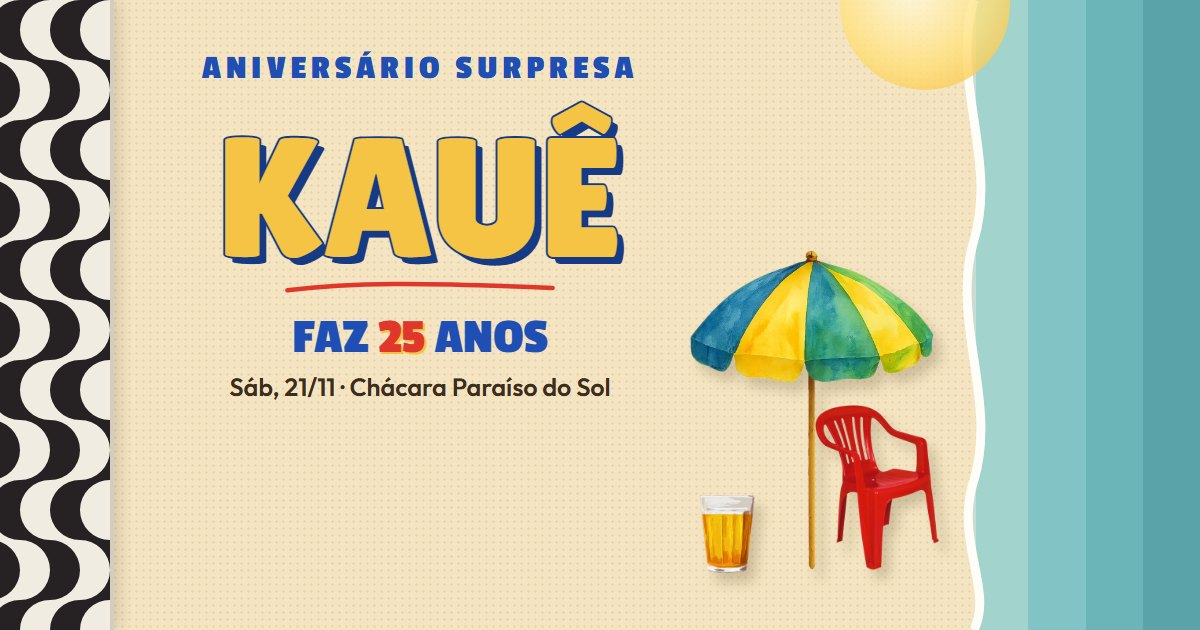
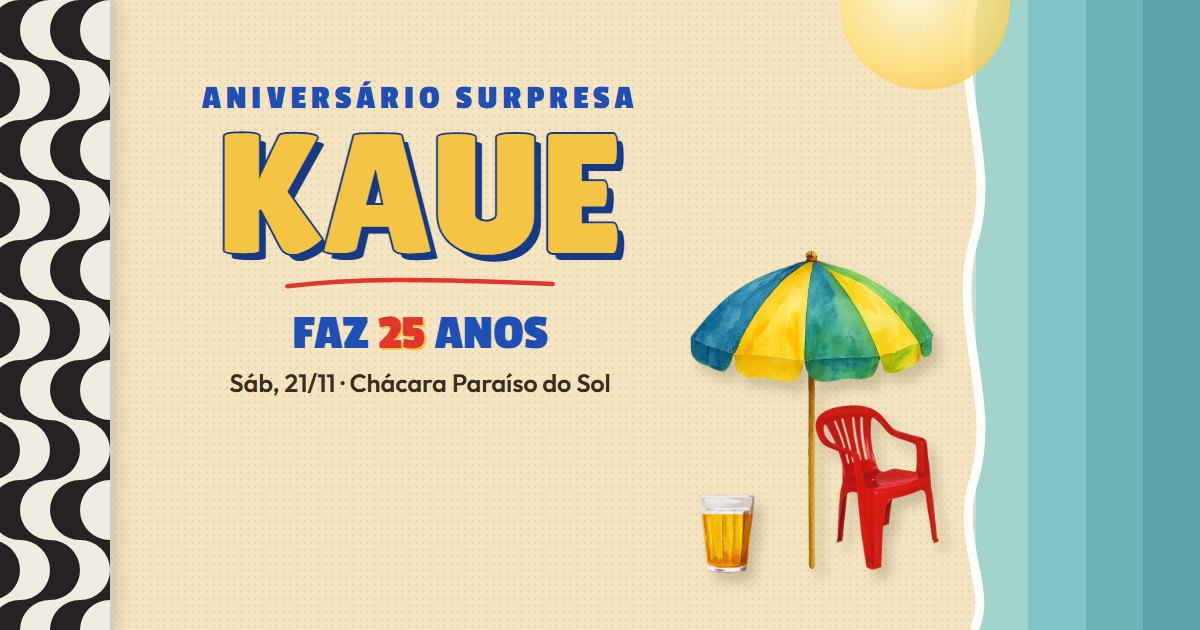
Kaue sem acento, bola fazendo embaixadinha, script grava x na coluna Mavi/Kaue

Changed region(s): [[0.1542, 0.0905, 0.5242, 0.6333]]

diff --git a/index.html b/index.html
@@ -3,10 +3,10 @@
 <head>
 <meta charset="utf-8">
 <meta name="viewport" content="width=device-width, initial-scale=1, viewport-fit=cover">
-<title>Aniversário do Kauê</title>
+<title>Aniversário do Kaue</title>
 <meta name="claude:viewport-fit-sides" content="cover">
-<meta name="description" content="Sábado, 21/11, na Chácara Paraíso do Sol. É surpresa: não conte pro Kauê! Confirme sua presença.">
-<meta property="og:title" content="Aniversário surpresa · Kauê, 25">
+<meta name="description" content="Sábado, 21/11, na Chácara Paraíso do Sol. É surpresa: não conte pro Kaue! Confirme sua presença.">
+<meta property="og:title" content="Aniversário surpresa · Kaue, 25">
 <meta property="og:description" content="Sábado, 21/11, na Chácara Paraíso do Sol. Shhh, é surpresa. Confirme sua presença aqui.">
 <meta property="og:image" content="https://immfernanda.github.io/Convitekaue/img/og.jpg">
 <meta property="og:type" content="website">
@@ -181,7 +181,7 @@ main{
 /* topo estilo cartaz */
 .hero{text-align:center;position:relative;padding-top:24px}
 .eyebrow{font-family:var(--placa);font-size:1.25rem;letter-spacing:.12em;text-transform:uppercase;color:var(--azul)}
-h1.nome{margin:.1em 0 0;line-height:.86;font-weight:400;padding-top:.32em} /* espaço pro acento do Ê */
+h1.nome{margin:.1em 0 0;line-height:.86;font-weight:400}
 h1.nome .maria{
   display:block;font-family:var(--chunky);font-size:clamp(3.3rem,16vw,6rem);letter-spacing:.01em;
   color:var(--amarelo);-webkit-text-stroke:2px var(--azul-escuro);paint-order:stroke fill;
@@ -455,14 +455,25 @@ body.encerrado .so-aberto{display:none!important}
 }
 
 
-/* ===== Kauê: bola e figurinha ===== */
-/* bola atravessando a areia, quicando (fica por trás do convite) */
-.bola-areia{position:fixed;z-index:0;pointer-events:none;left:0;top:62vh;width:clamp(30px,7vw,46px);
-  animation:bolaVai 13s linear infinite;animation-delay:-3s}
-.bola-areia svg{display:block;width:100%;height:auto;overflow:visible;
-  filter:drop-shadow(8px 12px 2px rgba(110,80,30,.18));animation:bolaQuica 1.1s cubic-bezier(.4,0,.6,1) infinite,bolaGira 1.4s linear infinite}
-@keyframes bolaVai{from{transform:translateX(-10vw)}to{transform:translateX(110vw)}}
-@keyframes bolaQuica{0%,100%{translate:0 0}50%{translate:0 -38px}}
+/* ===== Kaue: bola e figurinha ===== */
+/* bola fazendo embaixadinha ao lado da cadeira: sobe e desce no mesmo lugar */
+.embaixadinha{position:absolute;bottom:14px;left:50%;transform:translateX(-265%);width:clamp(34px,9vw,46px);height:150px;pointer-events:none}
+.embaixadinha svg{position:absolute;left:0;bottom:0;width:100%;height:auto;overflow:visible;
+  animation:embaixa 1.3s infinite,giraBola 1.3s linear infinite}
+.sombra-bola{position:absolute;left:8%;right:8%;bottom:-4px;height:10px;border-radius:50%;background:rgba(110,80,30,.28);
+  animation:sombraBola 1.3s infinite}
+@keyframes embaixa{
+  0%{translate:0 0;animation-timing-function:cubic-bezier(.2,.7,.4,1)}
+  50%{translate:0 -105px;animation-timing-function:cubic-bezier(.6,0,.8,.3)}
+  100%{translate:0 0}
+}
+@keyframes sombraBola{
+  0%{transform:scale(1);opacity:1;animation-timing-function:cubic-bezier(.2,.7,.4,1)}
+  50%{transform:scale(.45);opacity:.45;animation-timing-function:cubic-bezier(.6,0,.8,.3)}
+  100%{transform:scale(1);opacity:1}
+}
+@keyframes giraBola{to{rotate:360deg}}
+@keyframes embaixaPC{0%{translate:0 0;animation-timing-function:cubic-bezier(.2,.7,.4,1)}50%{translate:0 -150px;animation-timing-function:cubic-bezier(.6,0,.8,.3)}100%{translate:0 0}}
 @keyframes bolaGira{to{rotate:360deg}}
 
 /* comemoração do gol na confirmação */
@@ -520,6 +531,8 @@ body.encerrado .so-aberto{display:none!important}
   .cena .gs{height:350px}
   .cena .cad{height:185px}
   .cena .copo{height:84px}
+  .embaixadinha{width:58px;height:200px}
+  .embaixadinha svg{animation-name:embaixaPC,giraBola}
   .selo-contagem{width:160px;height:160px;top:80px;right:-20px}
   .selo-contagem small{font-size:1.35rem}
   .selo-contagem strong{font-size:4.2rem}
@@ -583,7 +596,6 @@ body.encerrado .so-aberto{display:none!important}
   <div class="halo"></div>
   <svg class="disco" viewBox="-280 -280 560 560"><circle r="66" fill="url(#gDisco)"/></svg>
 </div>
-<div class="bola-areia" aria-hidden="true"><svg viewBox="-50 -50 100 100"><use href="#bola"/></svg></div>
 <div class="gaivota" style="--t:clamp(34px,8vw,54px);--y:38vh;--dur:26s;--delay:-4s" aria-hidden="true"><img src="img/gaivota.png" alt=""></div>
 <div class="gaivota" style="--t:clamp(26px,6vw,42px);--y:72vh;--dur:34s;--delay:-20s" aria-hidden="true"><img src="img/gaivota.png" alt=""></div>
 <svg width="0" height="0" style="position:absolute" aria-hidden="true"><defs>
@@ -655,16 +667,17 @@ body.encerrado .so-aberto{display:none!important}
   <header class="hero" id="hero">
     <div class="eyebrow">Aniversário surpresa</div>
     <h1 class="nome">
-      <span class="maria">KAUÊ</span>
+      <span class="maria">KAUE</span>
     </h1>
     <svg class="risco" viewBox="0 0 240 14" aria-hidden="true"><path d="M4 9 C60 2 120 2 236 7" fill="none" stroke="#e0362c" stroke-width="4" stroke-linecap="round"/></svg>
     <div class="idade">faz <b>25</b> anos</div>
-    <p class="lede">Um sábado de sol, chinelo, piscina e copo americano pra comemorar o Kauê.</p>
+    <p class="lede">Um sábado de sol, chinelo, piscina e copo americano pra comemorar o Kaue.</p>
     <div class="cena">
       <div class="sombra-gs"></div>
       <img class="gs" src="img/guarda-sol.png" alt="">
       <img class="cad" src="img/cadeira-vermelha.png" alt="">
       <img class="copo" src="img/copo.png" alt="">
+      <div class="embaixadinha" aria-hidden="true"><div class="sombra-bola"></div><svg viewBox="-50 -50 100 100"><use href="#bola"/></svg></div>
       <div class="selo-contagem" id="selo"><small>faltam</small><strong id="dias">16</strong><small id="dias-txt">dias</small></div>
     </div>
   </header>
@@ -693,7 +706,7 @@ body.encerrado .so-aberto{display:none!important}
 
   <div class="comanda-wrap" id="comanda">
     <section class="comanda">
-      <div class="cabecalho"><span>Comanda nº 2611</span><span>Mesa do Kauê</span></div>
+      <div class="cabecalho"><span>Comanda nº 2611</span><span>Mesa do Kaue</span></div>
       <span class="carimbo" id="carimbo"></span>
 
       <div id="area-form">
@@ -738,7 +751,7 @@ body.encerrado .so-aberto{display:none!important}
   <div class="figurinha">
     <div class="fig-topo">BRASIL · 21/11</div>
     <img src="img/confirmacao.jpg" alt="">
-    <div class="fig-nome"><b>KAUÊ</b><span>25 anos · presença confirmada</span></div>
+    <div class="fig-nome"><b>KAUE</b><span>25 anos · presença confirmada</span></div>
   </div>
   <div id="bolasGol"></div>
 </div>
@@ -758,7 +771,7 @@ const CONFIG = {
   ENDPOINT: "https://script.google.com/macros/s/AKfycbzP1wiYkuMygi7V2kQms9j3YiY4rReISkCw7g-UJFH-_7Zov0HohUUz2J-hkU-HUe8eBA/exec",
   // Nome da aba da planilha onde as respostas entram
   ABA: "Kaue",
-  NOME_CURTO: "Kauê",
+  NOME_CURTO: "Kaue",
   LOJA: "https://chacaraparaisodosol.com.br/loja/",
   DATA_FESTA: new Date(2026, 10, 21, 9, 0, 0),   // 21/11/2026 9h (mês 0 = janeiro)
   PRAZO_FIM: new Date(2026, 10, 19, 0, 0, 0),    // fecha à meia-noite de 18 para 19/11
@@ -989,7 +1002,7 @@ function brinde(){
 }
 
 
-/* ====== comemoração de gol (Kauê) ====== */
+/* ====== comemoração de gol (Kaue) ====== */
 function gol(){
   const g=document.getElementById("gol"), box=document.getElementById("bolasGol");
   box.innerHTML="";
